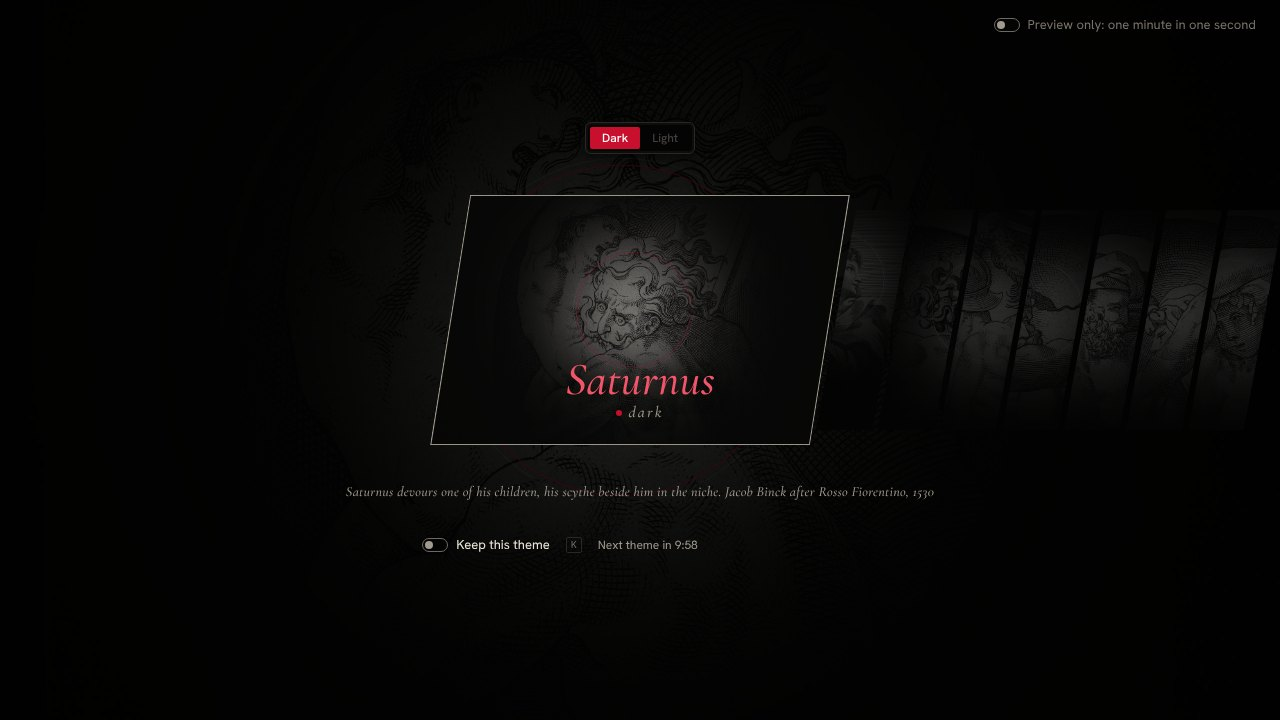
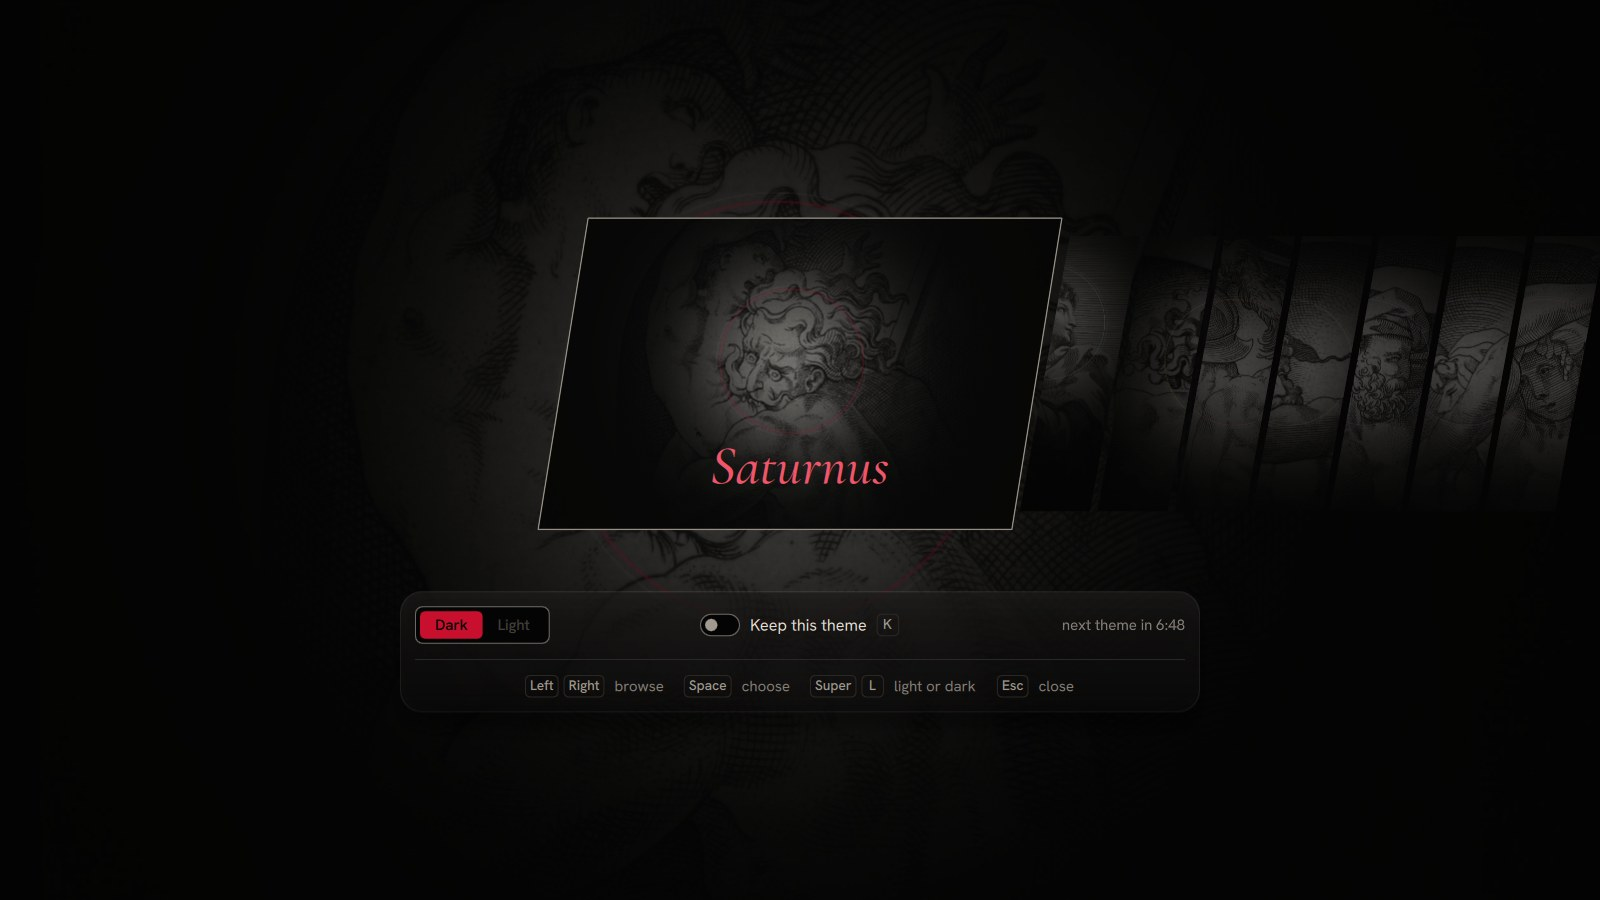
docs: refresh the pictures of the README with the shell
The screens are renderings of shell/qml itself now, the banner has no caption and an unspaced
motto, and the README no longer describes what the pictures show. Version 0.8.0.

diff --git a/docs/images/README.md b/docs/images/README.md
@@ -1,30 +1,21 @@
 # Images of the README
 
-| File | What | Source |
-|---|---|---|
-| `banner.jpg` | The wordmark, the motto, one line on what Strix is, the owl in the colours of Saturnus and the dark plate of Saturnus | Drawn for this repository from StrixUI's fonts and wallpaper; the owl from the theme engine (`theme render owl saturnus`) |
-| `desktop.jpg` | The desktop with the top bar, Saturnus | Rendering `docs/renders/Desktop.png` of [StrixUI](https://github.com/liviosysctl/StrixUI) |
-| `lock-screen.jpg` | The lock screen, Saturnus | Rendering `docs/renders/LockScreen.png` of StrixUI |
-| `search.jpg` | Search | Rendering `docs/renders/Search.png` of StrixUI |
-| `theme-picker.jpg` | The theme picker | Rendering `docs/renders/ThemePicker.png` of StrixUI |
-| `gods.jpg` | The eight god plates, dark and light in turn | Rendering `docs/renders/Themes-plates.jpg` of StrixUI |
-| `dock.jpg` | The dock | Rendering `docs/renders/EdgeDock.png` of StrixUI |
-| `terminal.jpg` | The terminal | Rendering `docs/renders/Terminal.png` of StrixUI |
-| `cheat-sheet.jpg` | The cheat sheet | Rendering `docs/renders/Cheatsheet.png` of StrixUI |
-| `settings-hotkeys.jpg` | Settings, hotkeys | Rendering `docs/renders/SettingsHotkeys.png` of StrixUI |
-| `boot-splash.jpg` | The boot splash | Rendering `docs/renders/BootSplash.png` of StrixUI |
-
-The renderings come from StrixUI at commit `7b95a13`. They show the design; the shell in `shell/qml` is built from the same components.
+| File | Source |
+|---|---|
+| `banner.jpg` | Drawn for this repository from StrixUI's fonts and wallpaper; the owl from the theme engine (`theme render owl saturnus:dark`) |
+| `desktop.jpg`, `lock-screen.jpg`, `theme-picker.jpg`, `search.jpg`, `dock.jpg`, `cheat-sheet.jpg`, `settings.jpg` | The shell of this repository (`shell/qml`), run without a screen on sway with Quickshell and the search service; the same renderings are in `docs/renders/` of [StrixUI](https://github.com/liviosysctl/StrixUI) |
+| `boot-splash.jpg` | Rendering `docs/renders/BootSplash.png` of StrixUI |
+| `gods.jpg` | Rendering `docs/renders/Themes-plates.jpg` of StrixUI |
 
 ## The engravings
 
-Every plate is an engraving from a public collection, printed in neutral ink and paper with one ring in the colour of its theme. The full list with titles, engravers, dates and object numbers is in StrixUI's `design-system/assets/Wallpapers/README.md`.
+Every plate is an engraving from a public collection. The full list with titles, engravers, dates and object numbers is in StrixUI's `design-system/assets/Wallpapers/README.md`.
 
 | Plate | Engraving | Licence |
 |---|---|---|
-| Saturnus (banner, desktop, lock screen and the other screens) | Jacob Binck after Giovanni Jacopo Caraglio after Rosso Fiorentino, Saturnus, from the Gods in Niches, 1530. Rijksmuseum RP-P-1951-178A | Public domain |
+| Saturnus (banner, desktop, theme picker, search, dock, cheat sheet, settings) | Jacob Binck after Giovanni Jacopo Caraglio after Rosso Fiorentino, Saturnus, from the Gods in Niches, 1530. Rijksmuseum RP-P-1951-178A | Public domain |
 | Janus (`gods.jpg`, theme picker) | Robert van Audenaerd after Carlo Maratta, Janus opens the door of the year, 1685 to 1723. Rijksmuseum RP-P-OB-67.432 | Public domain |
-| The other gods (`gods.jpg`, theme picker) | Jacob Binck after Giovanni Jacopo Caraglio after Rosso Fiorentino, from the Gods in Niches, Rijksmuseum, listed in StrixUI | Public domain |
+| The other gods (lock screen, `gods.jpg`, theme picker) | Jacob Binck after Giovanni Jacopo Caraglio after Rosso Fiorentino, from the Gods in Niches, Rijksmuseum, listed in StrixUI | Public domain |
 
 ## The fonts in the banner
 

diff --git a/README.md b/README.md
@@ -3,7 +3,7 @@
 Strix is a NixOS-based desktop distribution: Hyprland with a shell of its own in Quickshell, own services in Rust, and one theme that reaches every part of the system, from the boot splash to the terminal. The machine is described in `/etc/nixos`, three commands rebuild, update and add apps, and Neovim is the editor for all of it.
 
 ```
-Version :: 0.6.0
+Version :: 0.8.0
 Base :: NixOS unstable
 Desktop :: Hyprland, the shell in Quickshell
 Themes :: the eight Roman gods of StrixUI, each dark and light, Saturnus first
@@ -12,31 +12,18 @@ State :: work in progress, tested on an old laptop
 
 ## The look
 
-![The desktop under Saturnus](docs/images/desktop.jpg)
+![Desktop](docs/images/desktop.jpg)
 
-*Saturnus devours one of his children, his scythe beside him in the niche. Jacob Binck after Rosso Fiorentino, 1530*
-
-The look comes from [StrixUI](https://github.com/liviosysctl/StrixUI), the design system of Strix: near-black surfaces, old engravings of Roman gods as the ground, one accent colour that belongs to the god on the wallpaper and is used sparingly, floating surfaces of smoked glass, an old-style serif for titles beside a plain grotesque. Each god is a theme with a dark and a light variant: the dark plate is almost black with a glow around a ring on the head of the god, the light one is lit from the middle. Another god comes every 10 minutes unless you keep the one you have, and the lock screen shows a new one at every lock.
+The look comes from [StrixUI](https://github.com/liviosysctl/StrixUI), the design system of Strix. Every Roman god is a theme with a dark and a light variant. Another god comes every 10 minutes unless you keep the one you have, and the lock screen shows a new one at every lock.
 
 | | |
 |---|---|
-| ![The lock screen](docs/images/lock-screen.jpg) | ![The theme picker](docs/images/theme-picker.jpg) |
-| *The lock screen* | *The theme picker* |
+| ![Lock screen](docs/images/lock-screen.jpg) | ![Theme picker](docs/images/theme-picker.jpg) |
 | ![Search](docs/images/search.jpg) | ![The eight gods](docs/images/gods.jpg) |
-| *Search, one field for everything* | *Saturnus, Janus, Apollo, Mars, Vulcanus, Neptunus, Pluto and Bacchus* |
+| ![Dock](docs/images/dock.jpg) | ![Cheat sheet](docs/images/cheat-sheet.jpg) |
+| ![Settings](docs/images/settings.jpg) | ![Boot splash](docs/images/boot-splash.jpg) |
 
-### More screens
-
-| | |
-|---|---|
-| ![The dock](docs/images/dock.jpg) | ![The terminal](docs/images/terminal.jpg) |
-| *The dock* | *The terminal, Ghostty in the theme's colours* |
-| ![The cheat sheet](docs/images/cheat-sheet.jpg) | ![Settings, hotkeys](docs/images/settings-hotkeys.jpg) |
-| *The cheat sheet, Super K* | *Settings, hotkeys* |
-| ![The boot splash](docs/images/boot-splash.jpg) | |
-| *The boot splash* | |
-
-These are renderings of the design from StrixUI; the shell in this repository is built from the same components. Sources and licences of every picture are in [docs/images/README.md](docs/images/README.md).
+Sources and licences of every picture are in [docs/images/README.md](docs/images/README.md).
 
 ## Branches
 
